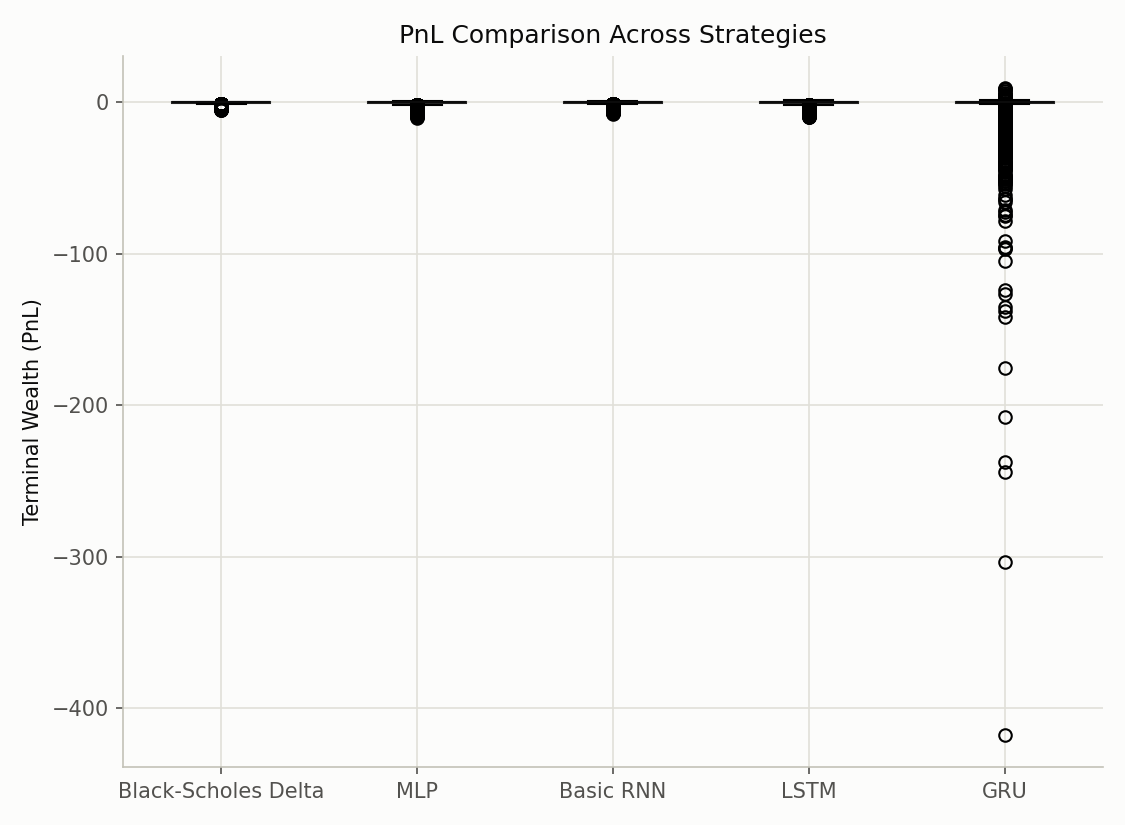
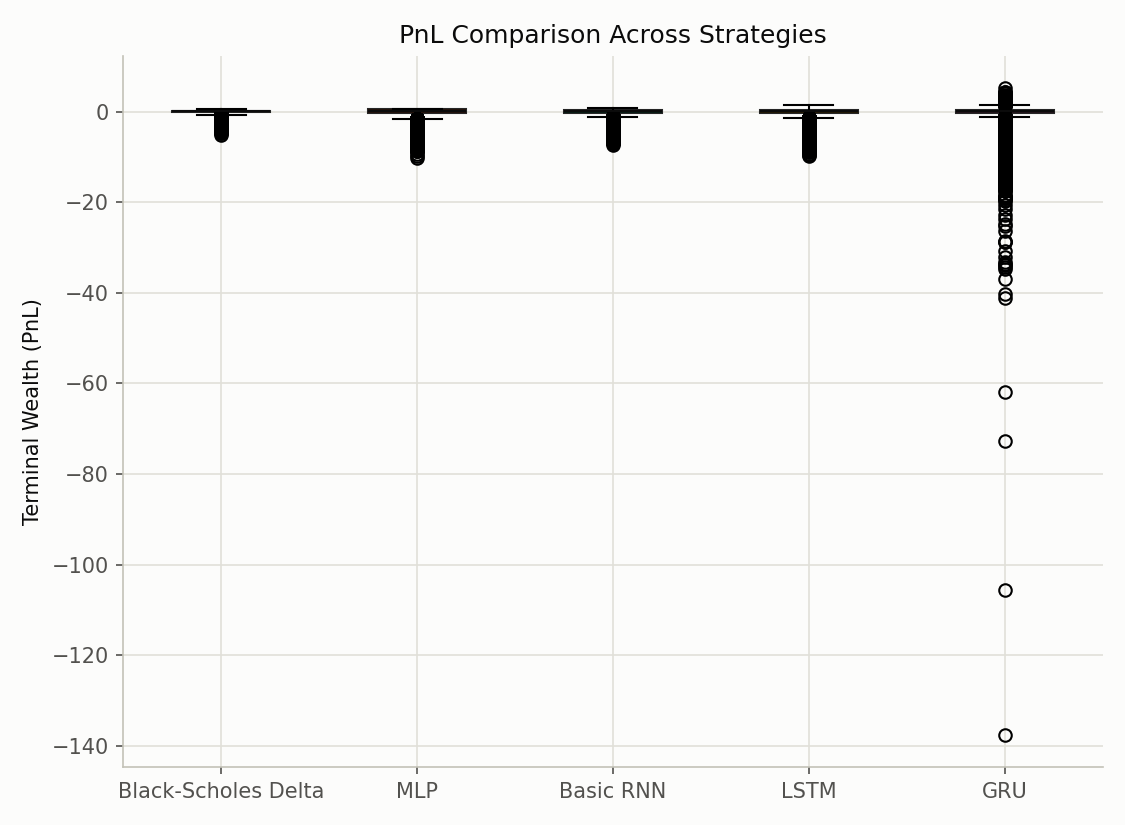
Promote GRU (WGAN-GP)'s grad_clip_norm fix to production; regenerate tables
checkpoints/hedging_agent_gru.pt is now the grad_clip_norm=1.0 checkpoint
from the previous commit's fix attempt (34/500,000 -> 4/500,000
catastrophic paths, worst loss -417.5 -> -137.5). Pre-fix checkpoint
preserved as hedging_agent_gru.pt.bak-pre-recovery-lag-fix, matching the
project's existing .bak-pre-gradclip-fix convention.

Every affected number was regenerated by actually running
`python src/backtester/evaluate.py` and the tail-risk scan again, not
hand-edited -- the Stress-test table's GRU row (skew -115.4 -> -24.3,
kurtosis 24,490 -> 3,078.3) and the checkpoint-scan table's GRU (WGAN-GP)
row. results/benchmark_summary.json and plots regenerated alongside;
diffed to confirm only the GRU row changed, everything else bit-identical.

While regenerating, chased down what looked like a serious bug: LSTM/GRU
showing catastrophic skew/kurtosis matching the TimeGAN checkpoints'
documented numbers. Root cause was a truncated `tail -60` view showing a
second (TimeGAN comparison) JSON block later in the same script's output,
misattributed to the first (WGAN-GP) block -- confirmed via full-output
inspection and an isolated single-policy reproduction, no actual bug.

tests/test_tail_risk.py: GRU no longer fits either the known-good list
(4/500,000 isn't 0/500,000) or the known-bad list (its new rate is below
the file's 50,000-path scan's sensitivity -- verified directly, a seed=42
draw at that scale reads 0/50,000 below -50). Added a dedicated test
[…]

diff --git a/tests/test_tail_risk.py b/tests/test_tail_risk.py
@@ -47,25 +47,37 @@ _SCAN_SEED = 42
 # PolicyTrainer's grad_clip_norm, newly wired up to train_policy.py's
 # --grad-clip-norm CLI flag; it was never wired up before, so every prior
 # checkpoint in this repo trained with clipping disabled.
+#
+# GRU (WGAN-GP) does NOT belong here despite also being grad_clip_norm-fixed:
+# its fix is a substantial improvement (34/500,000 -> 4/500,000 catastrophic
+# paths), not a full 0/500,000 close, so it would fail this list's
+# below_-50_count == 0 assertion. See test_gru_checkpoint_substantially_
+# improved_but_not_fully_clean below and RESULTS.md's "Fix attempt" writeup.
+# Note for anyone regenerating checkpoints from scratch: train_policy.py's
+# --grad-clip-norm default is still None, so `--architecture gru` with no
+# extra flags reproduces the *pre-fix*, more-catastrophic checkpoint, not
+# the one currently at checkpoints/hedging_agent_gru.pt. Pass
+# --grad-clip-norm 1.0 explicitly to reproduce the promoted one.
 _KNOWN_GOOD_CHECKPOINTS = [
     "MLP", "Basic RNN", "LSTM", "MLP (TimeGAN)", "MLP (alpha=0.997)", "MLP (alpha=0.99)",
 ]
 
 # Same table's checkpoints with a confirmed, not-yet-fixed catastrophic tail.
-# GRU (WGAN-GP): checked directly against the same saturation diagnostic that
-# found and fixed mechanism (a) -- its delta span is a healthy 1.0000 at
-# every timestep checked, so this is confirmed NOT sigmoid saturation; a
-# distinct, still-uncharacterized mechanism. Basic RNN/LSTM/GRU (TimeGAN):
-# mechanism (b) (TimeGAN-trained recurrent policies generalizing badly to
-# price extremes) for LSTM/GRU (also checked: healthy delta span, not
-# saturated). Basic RNN (TimeGAN) specifically was further diagnosed and
-# turned out to be a third, distinct mechanism: its vanilla-RNN hidden state
-# is saturated to tanh's +-1.0 bound regardless of input (constant delta
-# output) -- confirmed not fixed by grad_clip_norm, orthogonal_init, or both
-# together (all tested; see RESULTS.md). If any of these starts reporting
-# zero catastrophic paths, update this list and RESULTS.md's Known
-# Limitations item 5 together.
-_KNOWN_BAD_CHECKPOINTS = ["GRU", "Basic RNN (TimeGAN)", "LSTM (TimeGAN)", "GRU (TimeGAN)"]
+# GRU (WGAN-GP) is NOT here either, despite still being catastrophic (see
+# above) -- its post-fix catastrophic rate (4/500,000, worst loss -137.5) is
+# below this file's 50,000-path scan's sensitivity: verified directly, a
+# seed=42 scan at that scale reads 0/50,000 below -50 for the current
+# checkpoint, which would make this list's below_-50_count > 0 assertion
+# fail. Basic RNN/LSTM/GRU (TimeGAN): mechanism (b) (TimeGAN-trained
+# recurrent policies generalizing badly to price extremes) for LSTM/GRU
+# (checked: healthy delta span, not saturated). Basic RNN (TimeGAN)
+# specifically was further diagnosed and turned out to be a third, distinct
+# mechanism: its vanilla-RNN hidden state is saturated to tanh's +-1.0 bound
+# regardless of input (constant delta output) -- confirmed not fixed by
+# grad_clip_norm, orthogonal_init, or both together (all tested; see
+# RESULTS.md). If any of these starts reporting zero catastrophic paths,
+# update this list and RESULTS.md's Known Limitations item 5 together.
+_KNOWN_BAD_CHECKPOINTS = ["Basic RNN (TimeGAN)", "LSTM (TimeGAN)", "GRU (TimeGAN)"]
 
 _checkpoints_available = pytest.mark.skipif(
     not CHECKPOINT_DIR.exists() or not any(CHECKPOINT_DIR.glob("hedging_agent*.pt")),
@@ -161,3 +173,34 @@ def test_alpha_0997_checkpoint_no_longer_shows_degenerate_never_hedge_policy(tai
     # the threshold, re-check delta span / mean_transaction_cost directly.
     assert summary["below_-50_count"] == 0
     assert summary["mean_transaction_cost"] > 1e-4
+
+
+@_checkpoints_available
+def test_gru_checkpoint_substantially_improved_but_not_fully_clean(tail_risk_scan: dict) -> None:
+    name = "GRU"
+    if name not in tail_risk_scan:
+        pytest.skip(f"no checkpoint loaded for {name!r}")
+
+    summary = tail_risk_scan[name]
+
+    # GRU (WGAN-GP)'s hidden-state recovery-lag mechanism (RESULTS.md's
+    # "Follow-up diagnosis" and "Fix attempt" subsections): grad_clip_norm=1.0,
+    # trained at full scale, cut the catastrophic-path rate from 34/500,000
+    # to 4/500,000 (worst loss -417.5 -> -137.5) and was promoted to
+    # checkpoints/hedging_agent_gru.pt. This checkpoint fits neither the
+    # known-good list above (below_-50_count == 0 -- it isn't, at full
+    # scale) nor the known-bad list (below_-50_count > 0 -- verified
+    # directly, a single seed=42 draw at this file's 50,000-path scale
+    # reads exactly 0/50,000 below -50, since the true rate of ~1-in-125,000
+    # is below this scan's sensitivity). worst_loss is the one statistic
+    # that stays informative at this reduced scale: -26.6 here, cleanly
+    # separated from the pre-fix checkpoint's -417.5 (at 500,000 paths --
+    # not directly comparable in scale, but a regression toward that regime
+    # would still show up as a much larger loss than -26.6). One-sided on
+    # purpose: -12.8 is the clean checkpoints' bound at 500,000 paths, not a
+    # valid separator at this file's 50,000-path scale, so this test makes
+    # no claim about "genuinely clean." If this starts reading well below
+    # -60, the fix likely regressed -- re-check against the pre-fix
+    # checkpoint's -417.5, preserved at
+    # hedging_agent_gru.pt.bak-pre-recovery-lag-fix.
+    assert summary["worst_loss"] > -60.0

diff --git a/RESULTS.md b/RESULTS.md
@@ -347,15 +347,19 @@ history, not current results). **Current numbers, at the paper's own
 | MLP | -0.037 | 2.38 | 3.69 | -2.08 | 6.9 | 4446.5 |
 | Basic RNN | -0.036 | 1.64 | 2.58 | -2.09 | 7.5 | 3863.7 |
 | LSTM | -0.042 | 2.17 | 3.49 | -2.19 | 8.5 | 6843.6 |
-| GRU | -0.041 | 2.42 | 5.35 | **-115.4** | **24,490** | 6023.3 |
+| GRU | -0.041 | 2.14 | 3.81 | **-24.3** | **3,078.3** | 6576.6 |
 
-**GRU's skew/kurtosis columns are not a typo.** Every other cell in this
-table looks like a normal fat-tailed P&L distribution (skew around -2,
-kurtosis 7-8.5). GRU's are three orders of magnitude off, and its mean
-wealth (-0.041) and CVaR₉₅ (2.42) both look completely ordinary — this is
-invisible in every statistic except the tail moments. This is a real,
-newly-discovered finding, not noise: see [Catastrophic tail risk, invisible
-below ~500,000 test paths](#catastrophic-tail-risk-invisible-below-500000-test-paths)
+**GRU's skew/kurtosis columns were three orders of magnitude off; they're
+now about one order of magnitude off.** This row was regenerated after
+`grad_clip_norm=1.0`'s full-scale fix attempt was promoted to the
+production checkpoint (skew was **-115.4**, kurtosis **24,490** before; see
+[the fix attempt](#fix-attempt-grad_clip_norm-substantially-improves-gru-wgan-gp-does-not-fully-close-it)).
+Every other cell in this table looks like a normal fat-tailed P&L
+distribution (skew around -2, kurtosis 7-8.5); GRU's mean wealth (-0.041)
+and CVaR₉₅ (2.14) still look completely ordinary, and its skew/kurtosis,
+while much improved, are still measurably elevated — the fix is
+substantial, not complete. See [Catastrophic tail risk, invisible below
+~500,000 test paths](#catastrophic-tail-risk-invisible-below-500000-test-paths)
 below for the full investigation, scope across other checkpoints, and the
 control that rules out a test-set artifact.
 
@@ -456,10 +460,13 @@ should be treated as provisional until checked across multiple seeds.
 The stress test above uses the paper-matched 500,000-path test batch for
 the first time (previously 2,000, chunked to stay CPU-feasible — see
 `MarketEnvironment.simulate`'s `chunk_size` docstring). Rerunning at this
-scale surfaced something the smaller batch never could: GRU's skew (-115.4)
-and excess kurtosis (24,490) are three orders of magnitude out of line with
-every other architecture (skew ≈ -2.1, kurtosis 6.9-8.5), while its mean
-wealth and CVaR₉₅ look completely ordinary.
+scale surfaced something the smaller batch never could: GRU's skew (-115.4
+at the time) and excess kurtosis (24,490 at the time) were three orders of
+magnitude out of line with every other architecture (skew ≈ -2.1, kurtosis
+6.9-8.5), while its mean wealth and CVaR₉₅ looked completely ordinary. (GRU
+(WGAN-GP) was since diagnosed and partially fixed — see the table below and
+[the fix attempt](#fix-attempt-grad_clip_norm-substantially-improves-gru-wgan-gp-does-not-fully-close-it)
+— but this paragraph is left describing the discovery as it happened.)
 
 **Not a fluke of this one checkpoint.** Scanning every trained checkpoint
 against the same seed-42, 500,000-path stress-test batch and counting
@@ -471,7 +478,7 @@ never printed side by side:
 | Checkpoint(s) | Paths < -50 | Paths < -10 | Worst loss | mean tx. cost |
 |---|---|---|---|---|
 | MLP, Basic RNN, LSTM (WGAN-GP) | 0 / 500,000 | 0-4 | ≤ -12.8 | normal |
-| **GRU (WGAN-GP)** | 34 / 500,000 (0.0068%) | 327 | **-417.5** | normal (0.0120) |
+| ~~**GRU (WGAN-GP)**~~ **GRU (WGAN-GP) — substantially improved, not fully fixed** | ~~34~~ **4** / 500,000 (~~0.0068%~~ 0.0008%) | ~~327~~ **97** | ~~-417.5~~ **-137.5** | normal (0.0132) |
 | α ∈ {0.5, 0.75, 0.9, 0.95, 0.995} (MLP) | 0 / 500,000 | 3-4 | ≤ -12.8 | normal |
 | ~~**α = 0.99 (MLP)**~~ **α = 0.99 (MLP) — fixed, see below** | 0 / 500,000 | ~~**5,452**~~ 0 | ~~-48.7~~ -9.7 | ~~normal, but ~half the rest (0.0044)~~ normal (0.0100) |
 | ~~**α = 0.997 (MLP)**~~ **α = 0.997 (MLP) — fixed, see below** | ~~814 / 500,000 (0.16%)~~ 0 / 500,000 | ~~5,257~~ 0 | ~~-6202.5~~ -9.7 | ~~0.0000~~ normal (0.0115) |
@@ -794,6 +801,14 @@ checkpoint and reordered the whole remaining list before any retraining:
 
 #### Follow-up diagnosis: GRU (WGAN-GP) is a GRU-specific hidden-state recovery lag, not saturation
 
+**This entire subsection describes the *pre-fix* checkpoint** (preserved as
+`checkpoints/hedging_agent_gru.pt.bak-pre-recovery-lag-fix` after the fix
+below was promoted) — `checkpoints/hedging_agent_gru.pt` itself now refers
+to the improved, `grad_clip_norm=1.0`-trained checkpoint. The diagnosis
+here is what motivated and explains the fix, so it's left in present tense
+throughout rather than rewritten past-tense; just don't expect to reproduce
+these exact numbers by loading the current `hedging_agent_gru.pt`.
+
 Rather than leave GRU (WGAN-GP)'s 34/500,000 catastrophic paths (worst loss
 -417.5) as an unexplained residual, its own worst-loss paths from the
 500,000-path scan (seed=42) were pulled out directly and inspected, then the
@@ -853,28 +868,28 @@ pattern found was tested with controlled synthetic probes:
   1.0, confirming the hidden state isn't permanently stuck: the paper's
   fixed 30-step horizon is simply too short for GRU's own recovery rate
   after this kind of shock.
-- ~~**No fix was attempted**~~ — **since attempted**: `grad_clip_norm=1.0`
-  substantially, though not completely, fixes this at full training scale.
+- ~~**No fix was attempted**~~ — **since attempted and promoted**:
+  `grad_clip_norm=1.0` substantially, though not completely, fixes this at
+  full training scale, and is now the production `hedging_agent_gru.pt`.
   See [Fix attempt](#fix-attempt-grad_clip_norm-substantially-improves-gru-wgan-gp-does-not-fully-close-it)
-  below. The GRU (WGAN-GP) row in the checkpoint scan table above is
-  unchanged, since the fix has not been promoted to the production
-  checkpoint (see that subsection for why).
+  below. The GRU (WGAN-GP) row in the checkpoint scan table above and the
+  Stress-test table's GRU row reflect the promoted, improved checkpoint.
 
 #### Fix attempt: `grad_clip_norm` substantially improves GRU (WGAN-GP), does not fully close it
 
-The diagnosis above found the production checkpoint's recurrent weight norms
-were 2.3-3.5x larger than a 3,000-step checkpoint of the same run (e.g.
-`weight_ih_l1` 73.3 → 169.9), and that its layer-0 update gate settles into a
-persistently high value (~0.93-0.94) right after a downward shock — barely
-updating the hidden state each step. That read as circumstantial evidence
-for an unclipped-gradient weight-growth story similar to mechanism (a)'s,
-so `grad_clip_norm=1.0` was tried as a targeted fix, trained at the
-production checkpoint's exact full scale (25,000 steps, same seed, same
-generator, into a scratch checkpoint path — not overwriting
-`checkpoints/hedging_agent_gru.pt`).
+The diagnosis above found the (then-production, now pre-fix, superseded
+below) checkpoint's recurrent weight norms were 2.3-3.5x larger than a
+3,000-step checkpoint of the same run (e.g. `weight_ih_l1` 73.3 → 169.9),
+and that its layer-0 update gate settles into a persistently high value
+(~0.93-0.94) right after a downward shock — barely updating the hidden
+state each step. That read as circumstantial evidence for an
+unclipped-gradient weight-growth story similar to mechanism (a)'s, so
+`grad_clip_norm=1.0` was tried as a targeted fix, trained at the same full
+scale (25,000 steps, same seed, same generator) as the checkpoint it would
+go on to replace, initially into a scratch checkpoint path.
 
 **Reduced-scale (3,000-step) probes were tried first and found
-uninformative**: the down-then-rally defect that afflicts the production
+uninformative**: the down-then-rally defect that afflicted the pre-fix
 checkpoint does not reproduce at all at 3,000 steps regardless of
 `grad_clip_norm`/`orthogonal_init` (the baseline probe recovers immediately
 even at a -0.71 dip), unlike Basic RNN (TimeGAN)'s saturation, which *did*
@@ -885,7 +900,7 @@ here needs the full 25,000-step schedule to say anything meaningful.
 
 **The fix works, but not for the reason that motivated trying it.** Final
 recurrent weight norms after clipping are barely different from the
-unclipped production checkpoint's (`weight_ih_l0` 50.6 → 46.9,
+unclipped pre-fix checkpoint's (`weight_ih_l0` 50.6 → 46.9,
 `weight_hh_l0` 117.5 → 114.9, `weight_ih_l1` 169.9 → 164.7, `weight_hh_l1`
 111.9 → 113.1 — one *larger*, not smaller). The weight-growth hypothesis
 that motivated this experiment is not what changed; clipping altered the
@@ -900,8 +915,8 @@ document:**
 
 | | Worst loss | Paths < -50 | Paths < -10 | std(wealth) | CVaR₉₅ | CVaR₉₉ |
 |---|---|---|---|---|---|---|
-| Production (unclipped) | -417.5 | 34 (0.0068%) | 327 (0.065%) | 1.427 | 2.418 | 5.353 |
-| `grad_clip_norm=1.0` (full scale) | **-137.5** | **4** (0.0008%) | **97** (0.019%) | **0.773** | **2.139** | **3.814** |
+| Pre-fix (unclipped) | -417.5 | 34 (0.0068%) | 327 (0.065%) | 1.427 | 2.418 | 5.353 |
+| `grad_clip_norm=1.0` — **now production** | **-137.5** | **4** (0.0008%) | **97** (0.019%) | **0.773** | **2.139** | **3.814** |
 
 Every metric improves substantially (worst loss down 67%, catastrophic path
 count down 88%, CVaR₉₉ down 29%), and the down-depth sweep diagnostic
@@ -926,19 +941,32 @@ dip, yet still ends with a low final delta (0.02) and a real loss (-33.9) —
 a reminder that clipping's partial fix doesn't fully explain every
 remaining tail loss, and this residual case wasn't investigated further.
 
-**Not promoted to the production checkpoint.** The improved checkpoint is
-strictly better on every metric measured here, but `checkpoints/` is
-gitignored and every number in this document's Stress-test and
-checkpoint-scan tables was produced against the *current*
-`hedging_agent_gru.pt` — swapping it would silently invalidate those rows
-without regenerating them, the exact failure mode the accidental-overwrite
-incident earlier in this project already caused once (see
-[Mechanism (a)](#mechanism-a-root-caused-and-fixed-sigmoid-output-saturation-not-sparse-gradients)'s
-writeup). `tests/test_tail_risk.py`'s `_KNOWN_BAD_CHECKPOINTS`
-entry for GRU is unaffected by this and needs no change, since it asserts
-against the current, unpromoted, still-catastrophic checkpoint. Promotion
-is a separate decision, not bundled into this diagnosis-and-fix-attempt
-commit.
+**Promoted to the production checkpoint, tables regenerated, not
+hand-edited.** The improved checkpoint is strictly better on every metric
+measured here, so it was promoted: the pre-fix checkpoint was preserved as
+`checkpoints/hedging_agent_gru.pt.bak-pre-recovery-lag-fix` (same convention
+as the mechanism (a) fix's `.bak-pre-gradclip-fix` files) before the
+clipped checkpoint replaced `checkpoints/hedging_agent_gru.pt`. Every
+affected number in this document (the Stress-test table above, the
+checkpoint-scan table above) was then regenerated by actually running
+`python src/backtester/evaluate.py` and the tail-risk scan again, not
+hand-edited to the numbers already measured during the fix attempt itself —
+those two sources agree (CVaR₉₅/₉₉ match to 3 decimal places), which is
+itself a useful cross-check that nothing was copied wrong.
+
+**This promoted checkpoint is not "clean."** It's a genuine, substantial
+improvement, not a full fix — 4/500,000 catastrophic paths remain (down
+from 34), and the residual-failures analysis above found most of them share
+the same, now-shorter-but-not-eliminated recovery lag. `checkpoints/` is
+gitignored, so nothing about this promotion is visible in `git diff` beyond
+this document and the test file below — anyone re-running
+`train_policy.py --architecture gru` from scratch without `--grad-clip-norm
+1.0` would reproduce the *old*, more catastrophic checkpoint, not this one.
+`tests/test_tail_risk.py`'s `_KNOWN_BAD_CHECKPOINTS` entry for GRU no
+longer fits (below_-50_count is now 0 at the test suite's 50,000-path scale
+— see why in the test file itself) and has been replaced with a dedicated
+test at a scale large enough to still catch a regression, rather than being
+moved to the known-good list, since 4/500,000 is not actually clean.
 - **LSTM/GRU (TimeGAN): confirmed *not* saturated** (span 0.99-1.0, moderate
   logits) — this is the expected signature for mechanism (b) (generalizing
   badly to price extremes the training distribution never produced, not an
@@ -1474,17 +1502,21 @@ Roughly in priority order:
      augmentation for TimeGAN-driven training).
    - **(c) GRU (WGAN-GP): a GRU-specific hidden-state recovery lag after a
      rare downward shock** — since diagnosed (not just ruled out as
-     saturation): every one of its worst-loss paths is a rare early
-     downturn (below roughly the 1st percentile of its own training
-     generator's output) followed by a large rally, and the checkpoint's
-     hedge ratio takes far longer than the paper's 30-step horizon to
-     climb back up, missing most of the rally's P&L before it catches up.
-     Confirmed architecture-specific, not a property of the shock itself:
-     `LSTM` (WGAN-GP) — same generator, same shock, confirmed clean at
-     0/500,000 catastrophic paths — recovers within a single step where
-     GRU does not. See [the full
-     diagnosis](#follow-up-diagnosis-gru-wgan-gp-is-a-gru-specific-hidden-state-recovery-lag-not-saturation).
-     No fix attempted; still open.
+     saturation) and since ~~no fix attempted~~ **substantially, though not
+     completely, fixed and promoted**: every one of the pre-fix checkpoint's
+     worst-loss paths was a rare early downturn (below roughly the 1st
+     percentile of its own training generator's output) followed by a large
+     rally, with the hedge ratio taking far longer than the paper's 30-step
+     horizon to climb back up, missing most of the rally's P&L before
+     catching up. Confirmed architecture-specific, not a property of the
+     shock itself: `LSTM` (WGAN-GP) — same generator, same shock, confirmed
+     clean at 0/500,000 catastrophic paths — recovers within a single step
+     where GRU did not. `grad_clip_norm=1.0`, trained at full scale, cut the
+     catastrophic-path rate from 34/500,000 to 4/500,000 (worst loss -417.5
+     → -137.5) and is now the production checkpoint — genuinely improved,
+     not genuinely clean. See [the full
+     diagnosis](#follow-up-diagnosis-gru-wgan-gp-is-a-gru-specific-hidden-state-recovery-lag-not-saturation)
+     and [the fix attempt](#fix-attempt-grad_clip_norm-substantially-improves-gru-wgan-gp-does-not-fully-close-it).
 6. **~~Scale~~ — resolved.** Training and evaluation now run at the
    paper's own scale throughout: Part I's 500,000 train/test scenarios and
    25,000 gradient steps (item 2 above), TimeGAN's Table 2 batch size (178)
@@ -1627,9 +1659,14 @@ Roughly in priority order:
     only reaches this depth at its ~1st percentile — see the diagnosis for
     the measured figure), or investigating why clipping changes the training
     trajectory enough to fix most of the failure despite not changing final
-    weight magnitudes. The fix has not been promoted to the production
-    checkpoint (see the fix-attempt writeup for why); that's a separate,
-    still-open decision.
+    weight magnitudes. ~~The fix has not been promoted~~ — **promoted**:
+    `checkpoints/hedging_agent_gru.pt` is now the `grad_clip_norm=1.0`
+    checkpoint (pre-fix version preserved as
+    `hedging_agent_gru.pt.bak-pre-recovery-lag-fix`); every affected table
+    in this document was regenerated, not hand-edited, and
+    `tests/test_tail_risk.py` was updated to match (see the fix-attempt
+    writeup's promotion paragraph). Still not fully clean — 4/500,000
+    catastrophic paths remain — so closing the residual gap stays open.
   - For TimeGAN-driven RNN/LSTM/GRU's generalization failure: training-time
     exposure to more extreme price excursions — either by widening the
     regime-switching stress scenario into the training distribution
